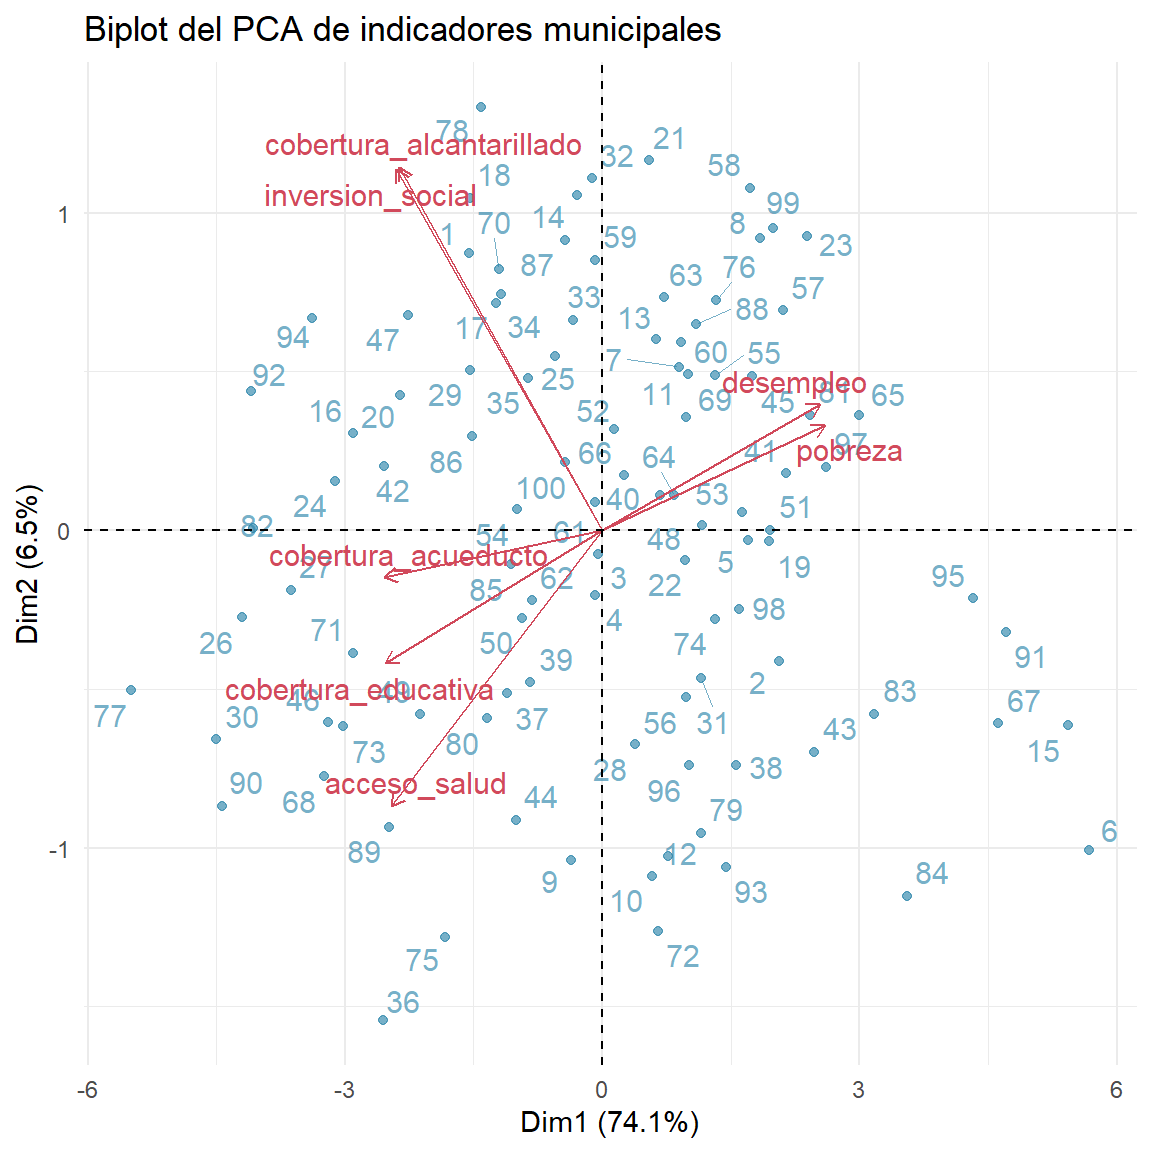
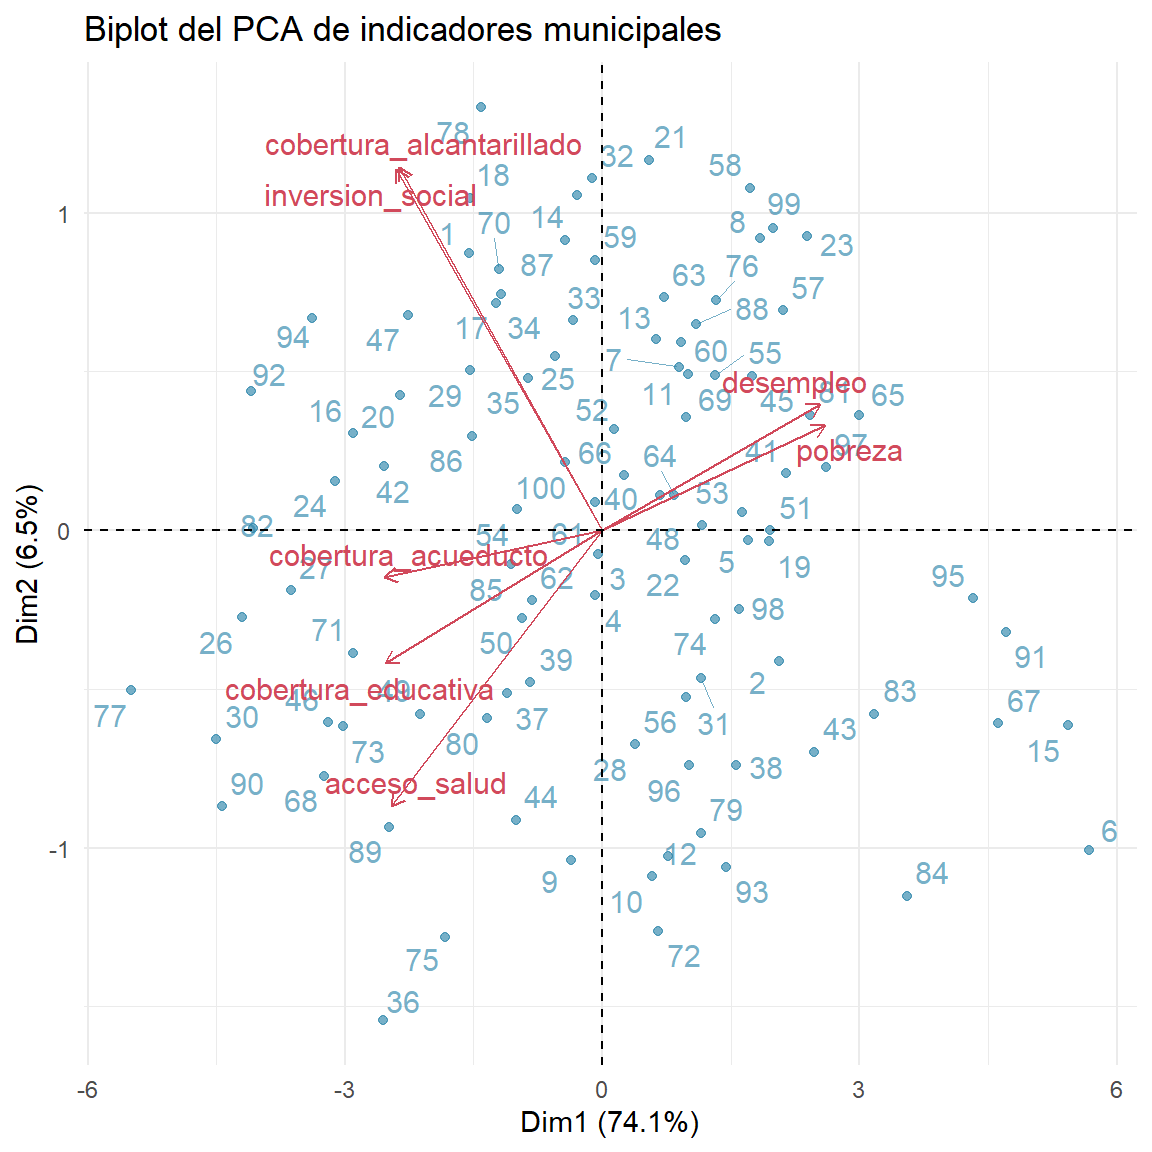
Cambios_1

diff --git a/index.html b/index.html
@@ -249,7 +249,7 @@ window.Quarto = {
   </ul></li>
   <li><a href="#reto-de-aplicación" id="toc-reto-de-aplicación" class="nav-link" data-scroll-target="#reto-de-aplicación"><span class="header-section-number">16</span> .Reto de aplicación</a></li>
   <li><a href="#conclusiones" id="toc-conclusiones" class="nav-link" data-scroll-target="#conclusiones"><span class="header-section-number">17</span> .Conclusiones</a></li>
-  <li><a href="#referencias-y-recursos" id="toc-referencias-y-recursos" class="nav-link" data-scroll-target="#referencias-y-recursos"><span class="header-section-number">18</span> .Referencias y recursos</a></li>
+  <li><a href="#referencias" id="toc-referencias" class="nav-link" data-scroll-target="#referencias"><span class="header-section-number">18</span> .Referencias</a></li>
   </ul>
 </nav>
 </div>
@@ -1394,8 +1394,8 @@ inversion_social         -0.364  0.582  0.475 -0.194  0.480 -0.185  0.041</code>
 <p>En R, la función <code>prcomp()</code> facilita su implementación. La interpretación requiere examinar los valores propios, la varianza explicada, las cargas y las puntuaciones, además de utilizar gráficos como el de sedimentación, el círculo de correlaciones y el biplot.</p>
 <p>En la administración pública, PCA puede facilitar el análisis de indicadores territoriales e institucionales, pero sus componentes son construcciones estadísticas y no dimensiones causales ni prioridades de política pública por sí mismas. Su uso debe acompañarse de justificación conceptual, transparencia y evaluación de sus limitaciones.</p>
 </section>
-<section id="referencias-y-recursos" class="level1" data-number="18">
-<h1 data-number="18"><span class="header-section-number">18</span> .Referencias y recursos</h1>
+<section id="referencias" class="level1" data-number="18">
+<h1 data-number="18"><span class="header-section-number">18</span> .Referencias</h1>
 <ul>
 <li>Jolliffe, I. T., &amp; Cadima, J. (2016). Principal component analysis: A review and recent developments. <em>Philosophical Transactions of the Royal Society A, 374</em>(2065), 20150202. https://doi.org/10.1098/rsta.2015.0202</li>
 <li>Jolliffe, I. T. (2002). <em>Principal Component Analysis</em> (2nd ed.). Springer.</li>
